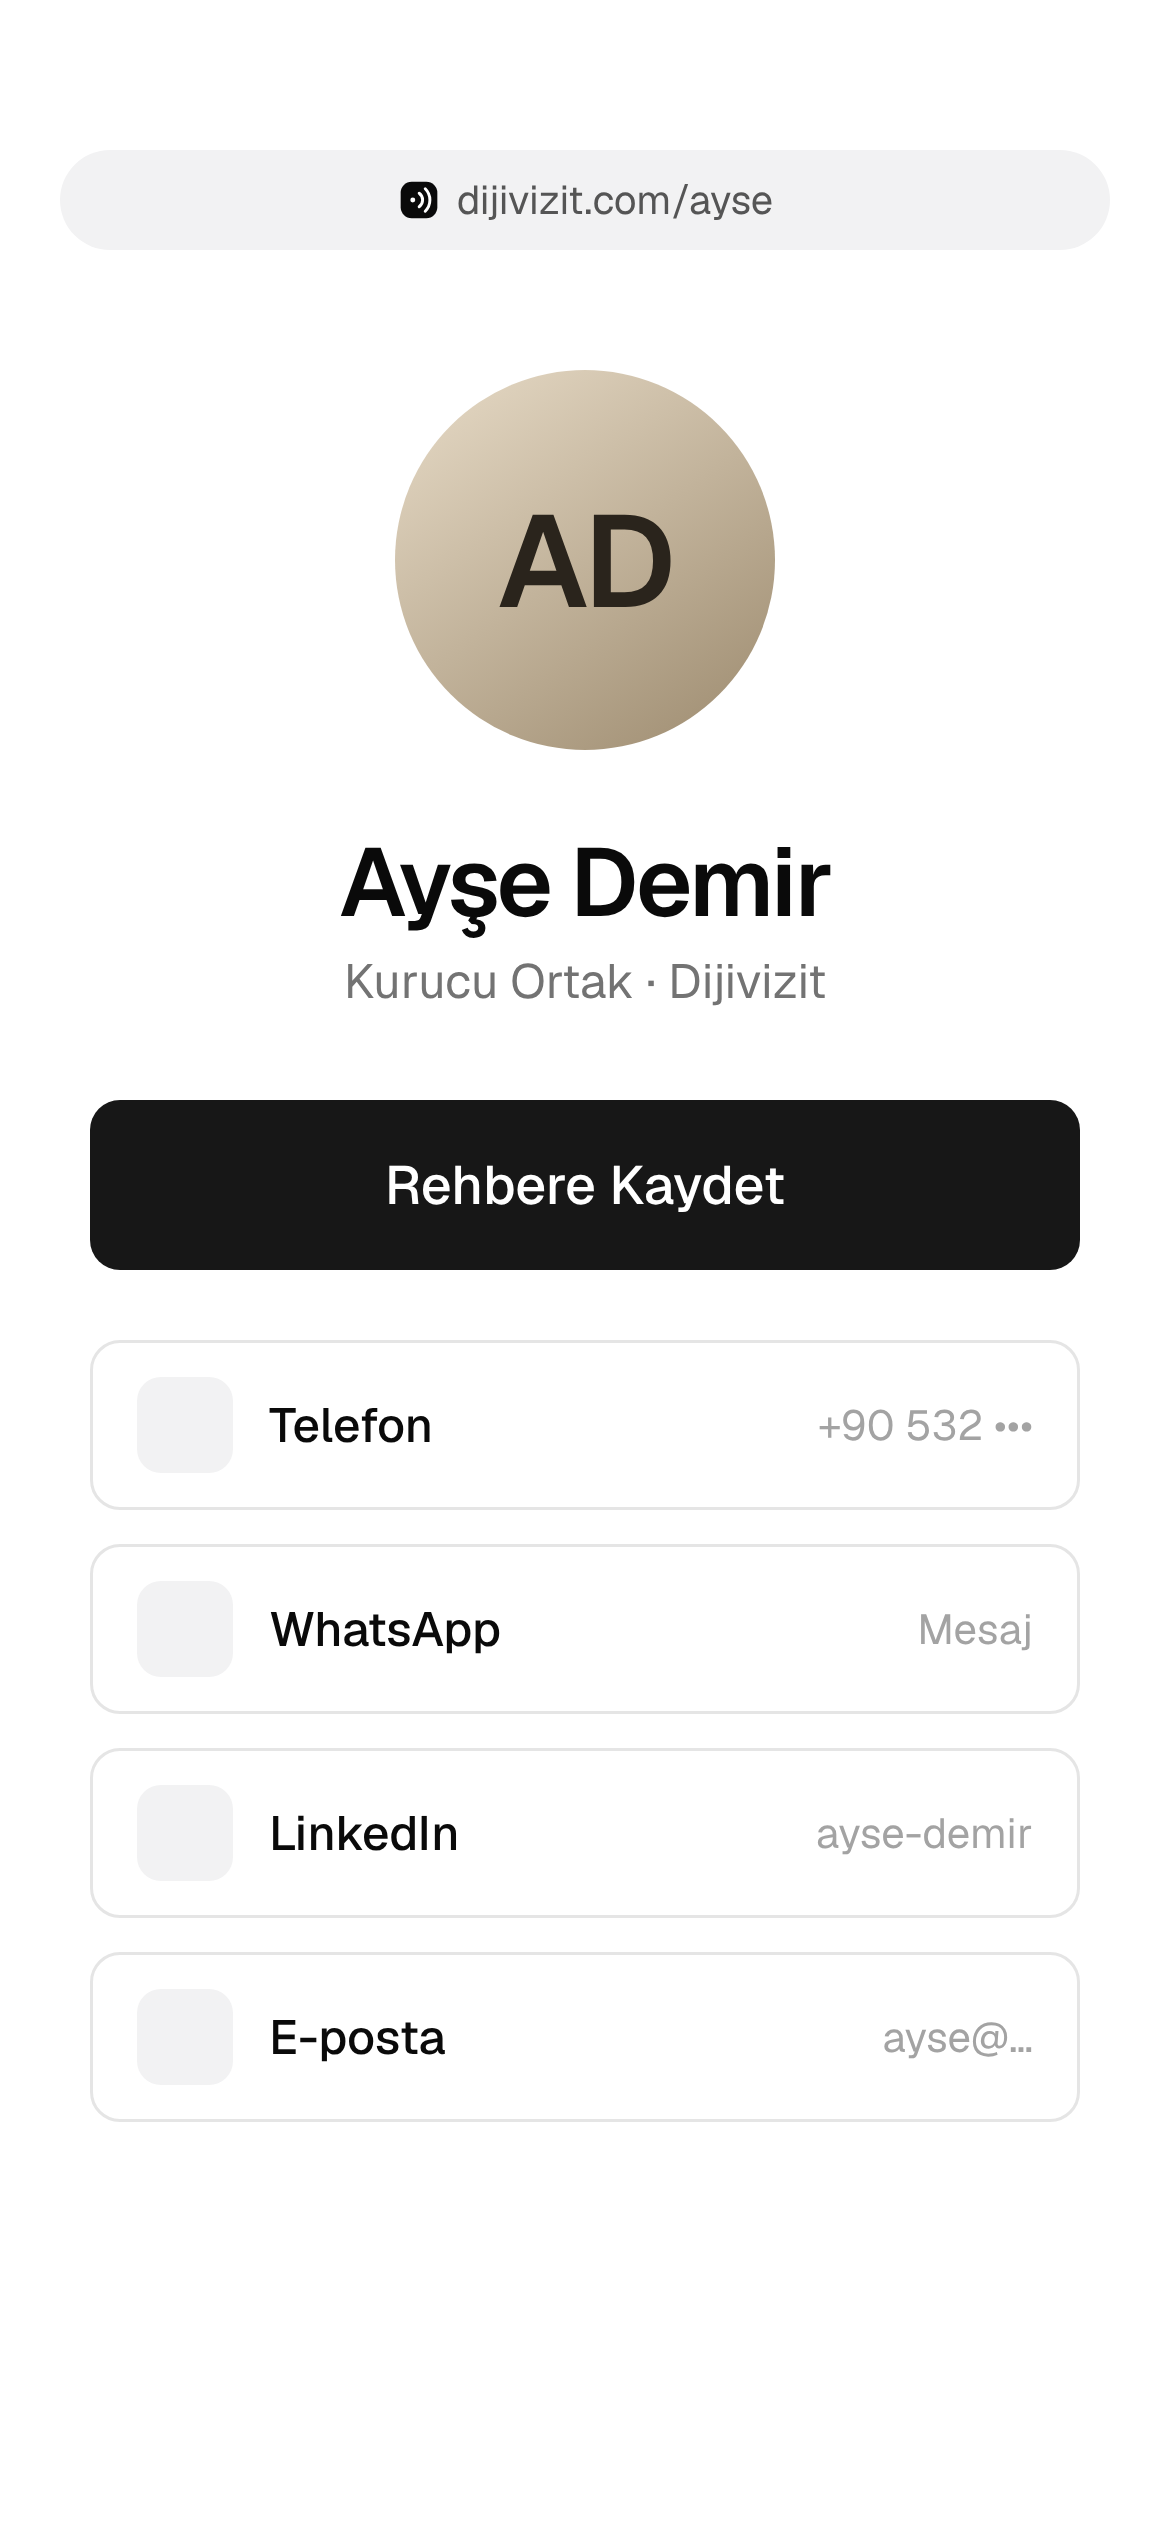
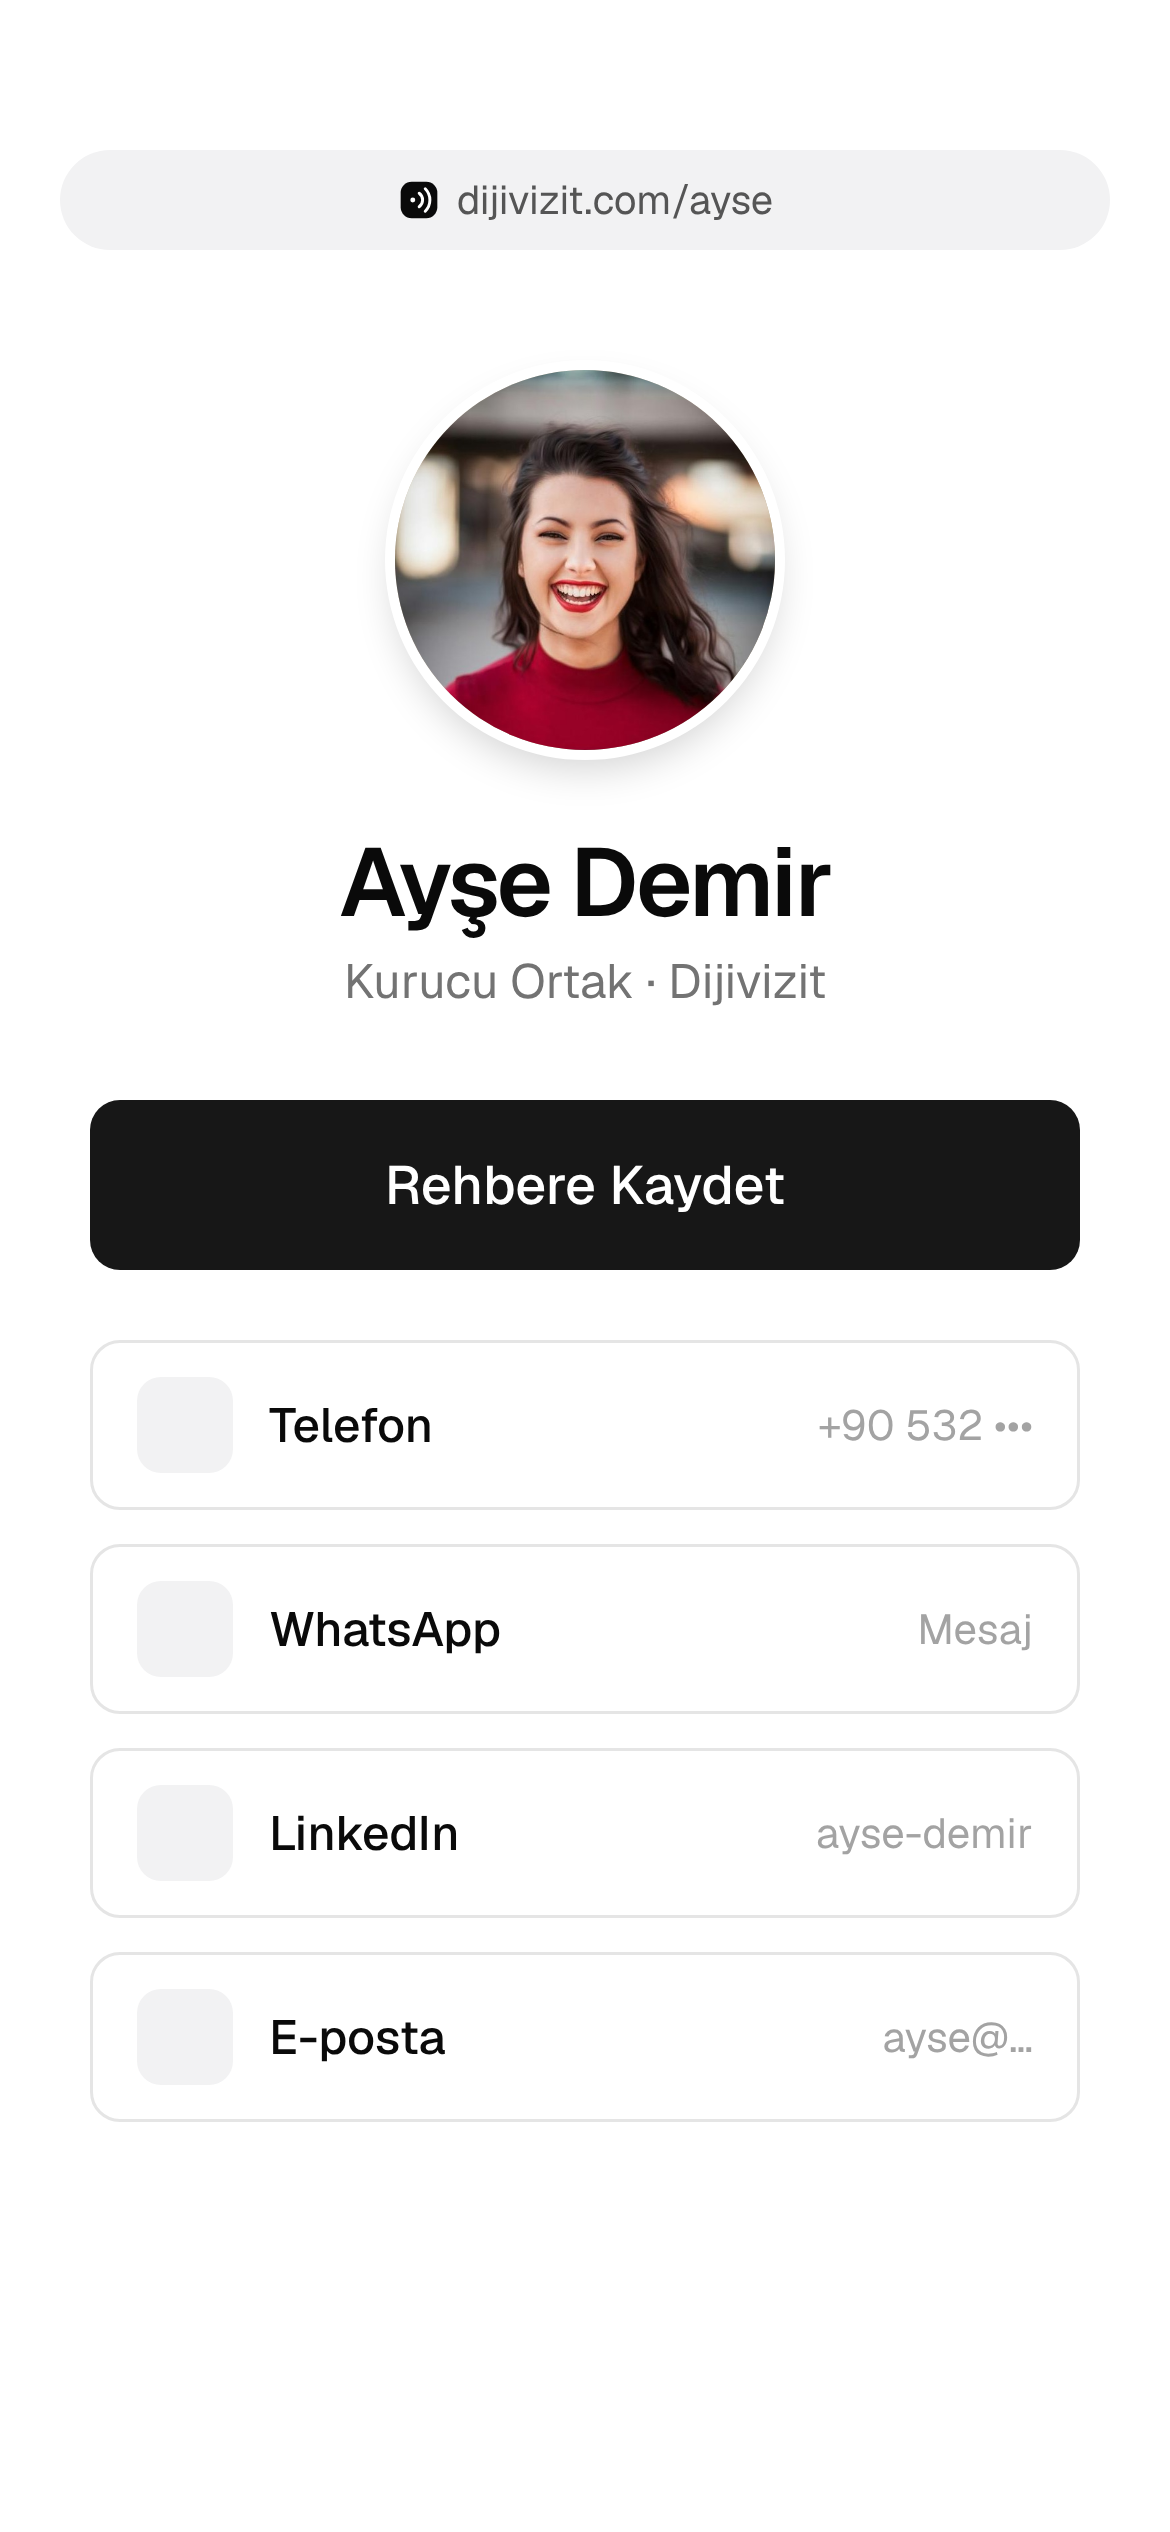
Landing render: card goes behind the phone, profile photo, four finishes
The card was keyed in world space and clipped through the phone around
frame 100. Its tap now runs in the phone's local space (over the top,
down behind, flat against the back), checked collision-free on every
frame. The profile screen gets a photo, and the scene renders black,
silver, gold and wood finishes for a new stills section.

Claude-Session: https://claude.ai/code/session_01RbxPV14g2sV64gxynTKrXk

Changed region(s): [[0.3385, 0.1248, 0.6769, 0.312]]

diff --git a/render/textures-src/screen-profile.html b/render/textures-src/screen-profile.html
@@ -2,7 +2,8 @@
 body{width:1170px;height:2532px;background:#fff;color:#0a0a0a;position:relative;--bg:#fff}
 .bar{position:absolute;top:150px;left:60px;right:60px;height:100px;border-radius:50px;background:#f2f2f3;display:flex;align-items:center;justify-content:center;font-size:40px;color:#555;gap:16px}
 .bar .m{width:44px;height:44px;color:#0a0a0a}
-.av{position:absolute;top:370px;left:50%;transform:translateX(-50%);width:380px;height:380px;border-radius:50%;background:linear-gradient(145deg,#e8dcc8,#9c8a6e);display:flex;align-items:center;justify-content:center;font-size:130px;font-weight:600;color:#2a241c;letter-spacing:-0.02em}
+.av{position:absolute;top:370px;left:50%;transform:translateX(-50%);width:380px;height:380px;border-radius:50%;background:linear-gradient(145deg,#e8dcc8,#9c8a6e);display:flex;align-items:center;justify-content:center;font-size:130px;font-weight:600;color:#2a241c;letter-spacing:-0.02em;overflow:hidden;box-shadow:0 0 0 10px #fff,0 18px 40px rgba(0,0,0,.18)}
+.av img{width:100%;height:100%;object-fit:cover;object-position:50% 30%}
 .n{position:absolute;top:820px;width:100%;text-align:center;font-size:96px;font-weight:600;letter-spacing:-0.03em}
 .h{position:absolute;top:950px;width:100%;text-align:center;font-size:48px;color:#737373}
 .cta{position:absolute;top:1100px;left:90px;right:90px;height:170px;border-radius:30px;background:#171717;color:#fff;display:flex;align-items:center;justify-content:center;font-size:54px;font-weight:500}
@@ -11,7 +12,7 @@ body{width:1170px;height:2532px;background:#fff;color:#0a0a0a;position:relative;
 .ic{width:96px;height:96px;border-radius:24px;background:#f2f2f3}
 .row span{margin-left:auto;color:#a3a3a3;font-weight:400;font-size:42px}
 </style></head><body><div class=bar><div class=m><svg viewBox="0 0 24 24" xmlns="http://www.w3.org/2000/svg"><rect x="2" y="2" width="20" height="20" rx="6" fill="currentColor"/><circle cx="8.6" cy="12" r="1.35" fill="var(--bg)"/><g fill="none" stroke="var(--bg)" stroke-width="1.6" stroke-linecap="round"><path d="M12.1 8.3a4.6 4.6 0 0 1 0 7.4"/><path d="M15.4 5.9a8.6 8.6 0 0 1 0 12.2"/></g></svg></div>dijivizit.com/ayse</div>
-<div class=av>AD</div><div class=n>Ayşe Demir</div><div class=h>Kurucu Ortak · Dijivizit</div>
+<div class=av><img src="avatar.jpg" alt=""></div><div class=n>Ayşe Demir</div><div class=h>Kurucu Ortak · Dijivizit</div>
 <div class=cta>Rehbere Kaydet</div>
 <div class=rows><div class=row><div class=ic></div>Telefon<span>+90 532 •••</span></div><div class=row><div class=ic></div>WhatsApp<span>Mesaj</span></div><div class=row><div class=ic></div>LinkedIn<span>ayse-demir</span></div><div class=row><div class=ic></div>E-posta<span>ayse@…</span></div></div>
 </body></html>

diff --git a/render/scene.py b/render/scene.py
@@ -30,6 +30,8 @@ def parse_args():
     p.add_argument("--frames", default="0-191")
     p.add_argument("--portrait", action="store_true")
     p.add_argument("--save-blend", default="")
+    p.add_argument("--finish", default="black", choices=["black", "silver", "gold", "wood"])
+    p.add_argument("--hide-phone", action="store_true")
     return p.parse_args(argv)
 
 
@@ -145,21 +147,67 @@ def principled(name, **inputs):
     return mat, bsdf
 
 
-def card_face_material(name, mask_path):
-    """Graphite brushed metal with laser-etched (lighter, rougher) artwork."""
-    mat, bsdf = principled(name, **{"Metallic": 1.0})
+FINISHES = {
+    # base, etched artwork, base roughness, etch roughness, edge
+    "black": ((0.09, 0.09, 0.1), (0.62, 0.62, 0.63), 0.28, 0.6, (0.5, 0.5, 0.52)),
+    "silver": ((0.9, 0.9, 0.92), (0.1, 0.1, 0.11), 0.12, 0.6, (0.9, 0.9, 0.92)),
+    "gold": ((1.0, 0.68, 0.2), (0.2, 0.12, 0.03), 0.05, 0.6, (1.0, 0.68, 0.2)),
+}
+
+
+def wood_color(nt, loc=(-900, 500)):
+    """Walnut grain from object coordinates, so faces and edges line up."""
+    tc = node(nt, "ShaderNodeTexCoord", (loc[0] - 600, loc[1]))
+    mp = node(nt, "ShaderNodeMapping", (loc[0] - 400, loc[1]))
+    mp.inputs["Location"].default_value = (0.25, 1.4, 0.0)
+    mp.inputs["Scale"].default_value = (0.55, 1.0, 1.0)
+    nt.links.new(tc.outputs["Object"], mp.inputs["Vector"])
+    wave = node(nt, "ShaderNodeTexWave", loc)
+    wave.wave_type = "RINGS"
+    wave.rings_direction = "Z"
+    wave.inputs["Scale"].default_value = 11.0
+    wave.inputs["Distortion"].default_value = 2.5
+    wave.inputs["Detail"].default_value = 6.0
+    wave.inputs["Detail Scale"].default_value = 1.6
+    wave.inputs["Detail Roughness"].default_value = 0.7
+    nt.links.new(mp.outputs["Vector"], wave.inputs["Vector"])
+    ramp = node(nt, "ShaderNodeValToRGB", (loc[0] + 220, loc[1]))
+    ramp.color_ramp.elements[0].color = (0.17, 0.085, 0.038, 1)
+    ramp.color_ramp.elements[0].position = 0.15
+    ramp.color_ramp.elements[1].color = (0.36, 0.19, 0.09, 1)
+    ramp.color_ramp.elements[1].position = 0.75
+    nt.links.new(wave.outputs["Fac"], ramp.inputs["Fac"])
+    return ramp.outputs["Color"]
+
+
+def card_face_material(name, mask_path, finish="black"):
+    """Card face: brushed metal (black/silver/gold) or walnut, with the artwork
+    laser-etched (contrasting, rougher)."""
+    wood = finish == "wood"
+    mat, bsdf = principled(name, **{"Metallic": 0.0 if wood else 1.0})
     nt = mat.node_tree
     mask = image(nt, os.path.join(TEX, mask_path), non_color=True, loc=(-900, 0))
     base = node(nt, "ShaderNodeMix", (-400, 200))
     base.data_type = "RGBA"
-    base.inputs["A"].default_value = (0.09, 0.09, 0.1, 1)
-    base.inputs["B"].default_value = (0.62, 0.62, 0.63, 1)
+    if wood:
+        nt.links.new(wood_color(nt), base.inputs["A"])
+        base.inputs["B"].default_value = (0.035, 0.02, 0.012, 1)  # laser burn
+        r0, r1 = 0.42, 0.85
+    else:
+        a, b, r0, r1, _ = FINISHES[finish]
+        base.inputs["A"].default_value = (*a, 1)
+        base.inputs["B"].default_value = (*b, 1)
     nt.links.new(mask.outputs["Color"], base.inputs["Factor"])
     nt.links.new(base.outputs["Result"], bsdf.inputs["Base Color"])
     rough = node(nt, "ShaderNodeMapRange", (-400, -100))
-    rough.inputs["To Min"].default_value = 0.28
-    rough.inputs["To Max"].default_value = 0.6
+    rough.inputs["To Min"].default_value = r0
+    rough.inputs["To Max"].default_value = r1
     nt.links.new(mask.outputs["Color"], rough.inputs["Value"])
+    if wood:
+        nt.links.new(rough.outputs["Result"], bsdf.inputs["Roughness"])
+        bsdf.inputs["Coat Weight"].default_value = 0.25
+        bsdf.inputs["Coat Roughness"].default_value = 0.25
+        return mat
     # Fine brushed streaks: stretched noise into roughness.
     tc = node(nt, "ShaderNodeTexCoord", (-1300, -300))
     mp = node(nt, "ShaderNodeMapping", (-1100, -300))
@@ -170,18 +218,28 @@ def card_face_material(name, mask_path):
     noise.inputs["Detail"].default_value = 4.0
     nt.links.new(mp.outputs["Vector"], noise.inputs["Vector"])
     streak = node(nt, "ShaderNodeMapRange", (-650, -300))
-    streak.inputs["To Min"].default_value = -0.05
-    streak.inputs["To Max"].default_value = 0.05
+    amp = 0.03 if finish == "gold" else 0.05
+    streak.inputs["To Min"].default_value = -amp
+    streak.inputs["To Max"].default_value = amp
     nt.links.new(noise.outputs["Fac"], streak.inputs["Value"])
     add = node(nt, "ShaderNodeMath", (-200, -150))
     add.operation = "ADD"
     nt.links.new(rough.outputs["Result"], add.inputs[0])
     nt.links.new(streak.outputs["Result"], add.inputs[1])
     nt.links.new(add.outputs["Value"], bsdf.inputs["Roughness"])
-    bsdf.inputs["Anisotropic"].default_value = 0.6
+    bsdf.inputs["Anisotropic"].default_value = 0.3 if finish == "gold" else 0.6
     tangent = node(nt, "ShaderNodeTangent", (-400, -400))
     tangent.direction_type = "UV_MAP"
     nt.links.new(tangent.outputs["Tangent"], bsdf.inputs["Tangent"])
+    return mat
+
+
+def card_edge_material(finish):
+    if finish == "wood":
+        mat, bsdf = principled("CardEdge", **{"Roughness": 0.5})
+        mat.node_tree.links.new(wood_color(mat.node_tree), bsdf.inputs["Base Color"])
+        return mat
+    mat, _ = principled("CardEdge", **{"Base Color": (*FINISHES[finish][4], 1), "Metallic": 1.0, "Roughness": 0.18})
     return mat
 
 
@@ -212,7 +270,7 @@ def screen_material():
 
 # ---------------------------------------------------------------- scene
 
-def build(portrait):
+def build(portrait, finish="black", hide_phone=False):
     bpy.ops.wm.read_factory_settings(use_empty=True)
     scene = bpy.context.scene
     scene.render.engine = "CYCLES"
@@ -289,13 +347,31 @@ def build(portrait):
     rim_obj.location = (3.5, 1.5, 3.0)
     rim_obj.rotation_euler = (Vector((0, 0, 0)) - rim_obj.location).to_track_quat("-Z", "Y").to_euler()
 
+    # Softboxes that only show up in reflections, so polished metal has
+    # something bright to mirror.
+    for name, loc, size, power in (("BoxTop", (-1.2, -3.0, 3.2), (6.0, 1.2), 4.0), ("BoxLeft", (-3.6, -2.2, 0.4), (1.0, 3.5), 3.0), ("BoxLow", (0.0, -5.2, -1.8), (11.0, 1.1), 1.5)):
+        box = flat(name, size[0], size[1], 0.05, seg=2)
+        box.location = loc
+        box.rotation_euler = (Vector((0, 0, 0)) - Vector(loc)).to_track_quat("Z", "Y").to_euler()
+        em = bpy.data.materials.new(name)
+        em.use_nodes = True
+        nt = em.node_tree
+        nt.nodes.remove(nt.nodes["Principled BSDF"])
+        e = nt.nodes.new("ShaderNodeEmission")
+        # Dark metal would turn grey under a bright mirror image; keep it subtle.
+        e.inputs["Strength"].default_value = power * (0.25 if finish == "black" else 1.0)
+        nt.links.new(e.outputs["Emission"], nt.nodes["Material Output"].inputs["Surface"])
+        box.data.materials.append(em)
+        box.visible_camera = False
+        box.visible_diffuse = False
+        box.visible_shadow = False
+
     # Card
     card = slab("Card", 0.856, 0.54, 0.032, 0.012)
     bevel(card, 0.0025, 3)
-    edge, _ = principled("CardEdge", **{"Base Color": (0.5, 0.5, 0.52, 1), "Metallic": 1.0, "Roughness": 0.22})
-    card.data.materials.append(edge)
-    card.data.materials.append(card_face_material("CardFront", "card-front.png"))
-    card.data.materials.append(card_face_material("CardBack", "card-back.png"))
+    card.data.materials.append(card_edge_material(finish))
+    card.data.materials.append(card_face_material("CardFront", "card-front.png", finish))
+    card.data.materials.append(card_face_material("CardBack", "card-back.png", finish))
 
     # Phone: titanium body, black front, inset screen and island.
     phone = bpy.data.objects.new("Phone", None)
@@ -317,6 +393,9 @@ def build(portrait):
     island.parent = phone
     island.location = (0, 0.645, 0.0396)
     island.data.materials.append(glass)
+    if hide_phone:
+        for o in (body, screen, island):
+            o.hide_render = True
 
     # Camera rig
     target = bpy.data.objects.new("Target", None)
@@ -361,11 +440,7 @@ def animate(card, phone, cam, target, mix_profile, mix_saved, portrait):
     key(card, 0, (0.0, 0.0, 0.08), (104, -6, -28))
     key(card, 36, (0.0, 0.0, 0.02), (96, -3, 14))
     key(card, 72, (-0.15, 0.0, 0.06), (96, 0, 172))
-    key(card, 96, (-0.55, 0.1, 0.25), (100, 4, 352))
-    key(card, 116, (-0.18, 0.42, 0.62), (100, 10, 372))  # contact behind top
-    key(card, 124, (-0.17, 0.43, 0.6), (100, 10, 372))
-    key(card, 150, (-1.5, 0.2, 0.9), (110, 25, 395))
-    key(card, 191, (-2.6, 0.2, 1.3), (120, 35, 410))
+    key(card, 96, (-0.75, 0.15, 0.3), (98, 3, 352))
 
     # Phone rises in from lower right and settles facing the camera.
     key(phone, 0, (1.6, 0.6, -3.2), (80, 0, -30))
@@ -373,6 +448,27 @@ def animate(card, phone, cam, target, mix_profile, mix_saved, portrait):
     key(phone, 100, (0.28, 0.35, -0.05), (90, 0, -12))
     key(phone, 150, (0.25, 0.35, -0.05), (90, 0, -8))
     key(phone, 191, (0.25, 0.35, -0.05), (90, 0, -6))
+
+    # From here the card is keyed in the phone's local space (x right, y up,
+    # z out of the screen; the back glass is at z = -0.039) so it goes over
+    # the top, drops in behind and lies flat against the back - never through.
+    scene = bpy.context.scene
+
+    def behind(frame, local, tilt=(0, 0, 0)):
+        scene.frame_set(frame)
+        mw = phone.matrix_world.copy()
+        pz = math.degrees(phone.rotation_euler.z)
+        key(card, frame, tuple(mw @ Vector(local)), (90 + tilt[0], tilt[1], 360 + pz + tilt[2]))
+
+    behind(101, (-0.95, 0.95, -0.3), (8, 2, 2))
+    behind(106, (-0.25, 1.1, -0.24), (6, 0, 4))
+    behind(112, (-0.08, 0.7, -0.14), (2, 0, 1))
+    behind(118, (-0.08, 0.64, -0.0485))  # contact
+    behind(126, (-0.08, 0.64, -0.0485))
+    behind(134, (-0.14, 0.7, -0.22), (4, 0, 6))
+    behind(150, (-1.2, 0.95, -0.55), (10, 12, 20))
+    behind(191, (-2.5, 1.3, -0.95), (18, 22, 40))
+    scene.frame_set(0)
 
     # Screen states
     key_value(mix_profile.inputs["Factor"], 0, 0.0)
@@ -409,7 +505,7 @@ def animate(card, phone, cam, target, mix_profile, mix_saved, portrait):
 def main():
     args = parse_args()
     portrait = args.portrait
-    scene = build(portrait)
+    scene = build(portrait, args.finish, args.hide_phone)
     w, h = (int(v) for v in args.res.split("x"))
     scene.render.resolution_x, scene.render.resolution_y = w, h
     scene.render.resolution_percentage = 100

diff --git a/render/README.md b/render/README.md
@@ -10,3 +10,7 @@
   them to `public/landing/{desktop,mobile}` and redeploys.
 - Local preview: `pip install bpy==5.2.3` then
   `python3 render/scene.py --out /tmp/frames --res 640x360 --samples 16 --frames 0,72,120,180`.
+- Card finishes: `--finish black|silver|gold|wood` (`--hide-phone` for the
+  finish stills shown on the landing page).
+- Profile photo in `textures-src/avatar.jpg`: Unsplash photo
+  `photo-1494790108377-be9c29b29330` (Unsplash License).
